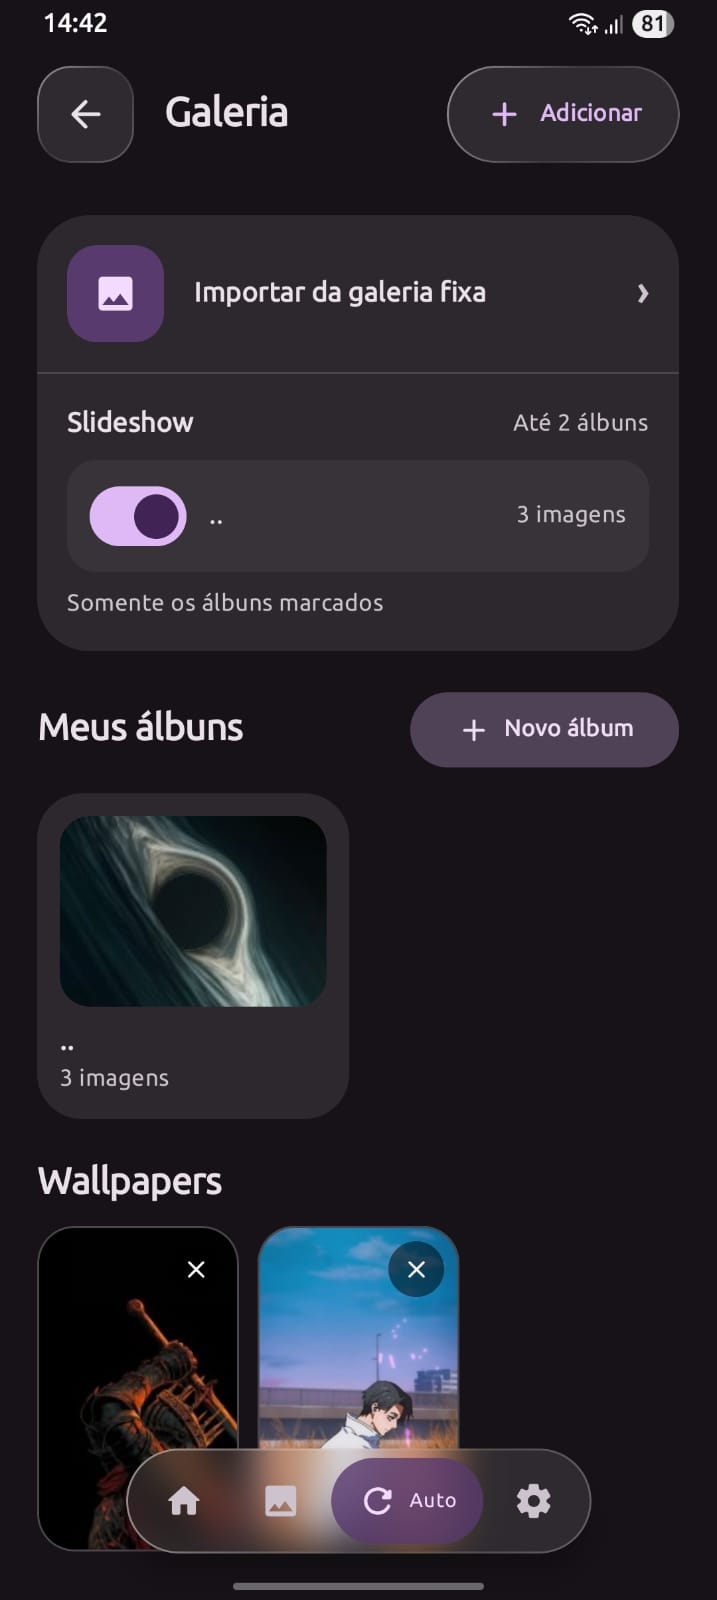
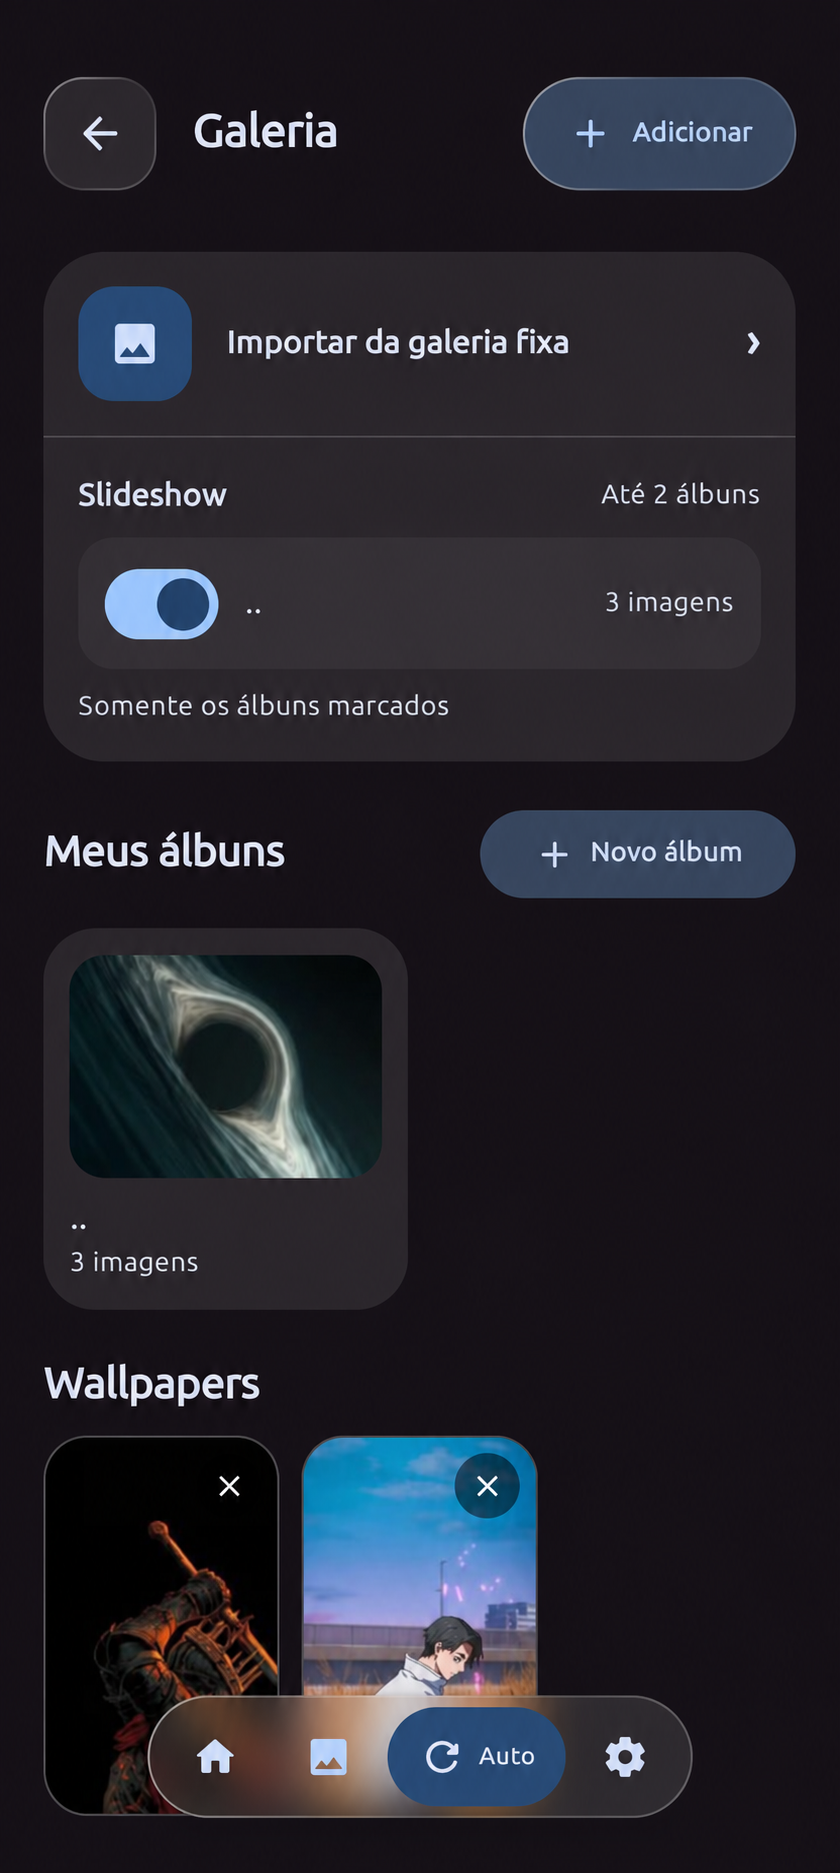
Add files via upload

diff --git a/index.html b/index.html
@@ -41,15 +41,15 @@
   <div class="section-label"><span>01</span><span class="label-pill">O seu Android, mais seu <b aria-hidden="true"><svg class="icon" viewBox="0 0 24 24" fill="none" stroke="currentColor" stroke-width="1.5" stroke-linecap="round" stroke-linejoin="round" aria-hidden="true"><path d="M12 2v20M2 12h20M5 5l14 14M5 19 19 5"/></svg></b></span></div>
   <h2>Um novo acabamento para o que você vê <span class="inline-mark" aria-hidden="true"><svg class="icon" viewBox="0 0 24 24" fill="none" stroke="currentColor" stroke-width="1.5" stroke-linecap="round" stroke-linejoin="round" aria-hidden="true"><path d="M6 18 18 6M6 6h12v12"/></svg></span> todos os dias.<br><span class="muted">Escolha a imagem. Ajuste o vidro.<br>Deixe a sua identidade aparecer.</span></h2>
   <div class="feature-grid" id="telas">
-    <article class="feature-card"><div class="shot-stage stage-peach"><span class="stage-tag">01 — PERSONALIZE</span><div class="phone"><img src="assets/app-home.png" alt="Tela inicial do Dock Líquida, com prévia de wallpaper abstrato e dock de vidro" width="918" height="2048" loading="eager"></div><span class="stage-spark" aria-hidden="true"><svg class="icon" viewBox="0 0 24 24" fill="none" stroke="currentColor" stroke-width="1.5" stroke-linecap="round" stroke-linejoin="round" aria-hidden="true"><path d="M12 2v20M2 12h20M5 5l14 14M5 19 19 5"/></svg></span></div><h3>Um toque de vidro.</h3><p>Ajuste o brilho, a refração e o acabamento da sua dock.</p></article>
-    <article class="feature-card featured-card"><a class="mini-cta" href="#versoes"><span>SEU PRÓXIMO VISUAL</span><span aria-hidden="true"><svg class="icon" viewBox="0 0 24 24" fill="none" stroke="currentColor" stroke-width="1.5" stroke-linecap="round" stroke-linejoin="round" aria-hidden="true"><path d="M6 18 18 6M6 6h12v12"/></svg></span></a><div class="shot-stage stage-mint"><span class="stage-tag">02 — ORGANIZE</span><div class="phone"><img src="assets/app-gallery.png" alt="Galeria do app com uma coleção de wallpapers abstratos" width="918" height="2048" loading="eager"></div></div><h3>Espaço para suas ideias.</h3><p>Organize seus wallpapers em galerias e álbuns, do seu jeito.</p></article>
-    <article class="feature-card"><div class="shot-stage stage-lilac"><span class="stage-tag">03 — RENOVE</span><div class="phone"><img src="assets/app-auto.png" alt="Galeria automática com álbum e wallpapers para alternar" width="918" height="2048" loading="eager"></div><span class="stage-spark" aria-hidden="true"><svg class="icon" viewBox="0 0 24 24" fill="none" stroke="currentColor" stroke-width="1.5" stroke-linecap="round" stroke-linejoin="round" aria-hidden="true"><path d="M20 7v5h-5M4 17v-5h5"/><path d="M6.1 7a7 7 0 0 1 11.6-1L20 9M4 15l2.3 3A7 7 0 0 0 18 17"/></svg></span></div><h3>Deixe o visual mudar.</h3><p>Monte coleções para a troca automática e mantenha cada dock individual.</p></article>
+    <article class="feature-card"><div class="shot-stage stage-peach"><span class="stage-tag">01 — PERSONALIZE</span><div class="phone"><img src="assets/app-home.png" alt="Tela inicial do Dock Líquida com interface azul e prévia de wallpaper com dock de vidro" width="840" height="1873" loading="eager"></div><span class="stage-spark" aria-hidden="true"><svg class="icon" viewBox="0 0 24 24" fill="none" stroke="currentColor" stroke-width="1.5" stroke-linecap="round" stroke-linejoin="round" aria-hidden="true"><path d="M12 2v20M2 12h20M5 5l14 14M5 19 19 5"/></svg></span></div><h3>Um toque de vidro.</h3><p>Ajuste o brilho, a refração e o acabamento da sua dock.</p></article>
+    <article class="feature-card featured-card"><a class="mini-cta" href="#versoes"><span>SEU PRÓXIMO VISUAL</span><span aria-hidden="true"><svg class="icon" viewBox="0 0 24 24" fill="none" stroke="currentColor" stroke-width="1.5" stroke-linecap="round" stroke-linejoin="round" aria-hidden="true"><path d="M6 18 18 6M6 6h12v12"/></svg></span></a><div class="shot-stage stage-mint"><span class="stage-tag">02 — ORGANIZE</span><div class="phone"><img src="assets/app-gallery.png" alt="Galeria do Dock Líquida com interface azul, álbuns e wallpapers" width="839" height="1874" loading="eager"></div></div><h3>Espaço para suas ideias.</h3><p>Organize seus wallpapers em galerias e álbuns, do seu jeito.</p></article>
+    <article class="feature-card"><div class="shot-stage stage-lilac"><span class="stage-tag">03 — RENOVE</span><div class="phone"><img src="assets/app-auto.png" alt="Galeria automática com álbum e wallpapers para alternar" width="840" height="1873" loading="eager"></div><span class="stage-spark" aria-hidden="true"><svg class="icon" viewBox="0 0 24 24" fill="none" stroke="currentColor" stroke-width="1.5" stroke-linecap="round" stroke-linejoin="round" aria-hidden="true"><path d="M20 7v5h-5M4 17v-5h5"/><path d="M6.1 7a7 7 0 0 1 11.6-1L20 9M4 15l2.3 3A7 7 0 0 0 18 17"/></svg></span></div><h3>Deixe o visual mudar.</h3><p>Monte coleções para a troca automática e mantenha cada dock individual.</p></article>
   </div>
-  <p class="image-note">Telas do app com wallpapers ilustrativos.</p>
+  <p class="image-note">Capturas do app com a interface recolorida em azul para esta apresentação.</p>
 </section>
 <section class="details wrap section" aria-labelledby="details-title">
   <div class="section-label"><span>02</span><span class="label-pill">Cada detalhe conta <b aria-hidden="true"><svg class="icon" viewBox="0 0 24 24" fill="none" stroke="currentColor" stroke-width="1.5" stroke-linecap="round" stroke-linejoin="round" aria-hidden="true"><path d="M12 2v20M2 12h20M5 5l14 14M5 19 19 5"/></svg></b></span></div>
-  <div class="details-layout"><div class="details-copy"><h2 id="details-title">O seu estilo.<br><em>Em cada ajuste.</em></h2><p>Uma imagem pode mudar tudo. E cada imagem pode ter a própria dock.</p><ul class="detail-list"><li><span>01</span><div><h3>Dock individual</h3><p>Guarde uma configuração para cada wallpaper.</p></div><span aria-hidden="true"><svg class="icon" viewBox="0 0 24 24" fill="none" stroke="currentColor" stroke-width="1.5" stroke-linecap="round" stroke-linejoin="round" aria-hidden="true"><path d="M6 18 18 6M6 6h12v12"/></svg></span></li><li><span>02</span><div><h3>Cores que acompanham você</h3><p>Escolha entre a paleta do sistema e as cores do wallpaper.</p></div><span aria-hidden="true"><svg class="icon" viewBox="0 0 24 24" fill="none" stroke="currentColor" stroke-width="1.5" stroke-linecap="round" stroke-linejoin="round" aria-hidden="true"><path d="M6 18 18 6M6 6h12v12"/></svg></span></li><li><span>03</span><div><h3>Claro, escuro ou automático</h3><p>Uma interface que combina com a sua preferência.</p></div><span aria-hidden="true"><svg class="icon" viewBox="0 0 24 24" fill="none" stroke="currentColor" stroke-width="1.5" stroke-linecap="round" stroke-linejoin="round" aria-hidden="true"><path d="M6 18 18 6M6 6h12v12"/></svg></span></li></ul></div><div class="settings-stage"><div class="settings-orbit" aria-hidden="true"></div><div class="settings-screen"><img src="assets/app-settings.png" alt="Configurações reais do Dock Líquida com aparência, origem das cores e dock individual" width="574" height="1280" loading="eager"></div><span class="settings-badge">DO SEU JEITO <span aria-hidden="true"><svg class="icon" viewBox="0 0 24 24" fill="none" stroke="currentColor" stroke-width="1.5" stroke-linecap="round" stroke-linejoin="round" aria-hidden="true"><path d="M6 18 18 6M6 6h12v12"/></svg></span></span></div></div>
+  <div class="details-layout"><div class="details-copy"><h2 id="details-title">O seu estilo.<br><em>Em cada ajuste.</em></h2><p>Uma imagem pode mudar tudo. E cada imagem pode ter a própria dock.</p><ul class="detail-list"><li><span>01</span><div><h3>Dock individual</h3><p>Guarde uma configuração para cada wallpaper.</p></div><span aria-hidden="true"><svg class="icon" viewBox="0 0 24 24" fill="none" stroke="currentColor" stroke-width="1.5" stroke-linecap="round" stroke-linejoin="round" aria-hidden="true"><path d="M6 18 18 6M6 6h12v12"/></svg></span></li><li><span>02</span><div><h3>Cores que acompanham você</h3><p>Escolha entre a paleta do sistema e as cores do wallpaper.</p></div><span aria-hidden="true"><svg class="icon" viewBox="0 0 24 24" fill="none" stroke="currentColor" stroke-width="1.5" stroke-linecap="round" stroke-linejoin="round" aria-hidden="true"><path d="M6 18 18 6M6 6h12v12"/></svg></span></li><li><span>03</span><div><h3>Claro, escuro ou automático</h3><p>Uma interface que combina com a sua preferência.</p></div><span aria-hidden="true"><svg class="icon" viewBox="0 0 24 24" fill="none" stroke="currentColor" stroke-width="1.5" stroke-linecap="round" stroke-linejoin="round" aria-hidden="true"><path d="M6 18 18 6M6 6h12v12"/></svg></span></li></ul></div><div class="settings-stage"><div class="settings-orbit" aria-hidden="true"></div><div class="editor-pair"><div class="settings-screen editor-base"><img src="assets/app-editor-base.png" alt="Editor de wallpaper com interface azul e controles de tamanho" width="839" height="1874" loading="lazy"></div><div class="settings-screen editor-dock"><img src="assets/app-editor-dock.png" alt="Editor da dock com interface azul e controles de posição" width="993" height="1584" loading="lazy"></div></div><span class="settings-badge">DO SEU JEITO <span aria-hidden="true"><svg class="icon" viewBox="0 0 24 24" fill="none" stroke="currentColor" stroke-width="1.5" stroke-linecap="round" stroke-linejoin="round" aria-hidden="true"><path d="M6 18 18 6M6 6h12v12"/></svg></span></span></div></div>
 </section>
 <section class="downloads wrap section" id="versoes" aria-labelledby="download-heading">
   <div class="section-label"><span>03</span><span class="label-pill">Pronto para mudar? <b aria-hidden="true"><svg class="icon" viewBox="0 0 24 24" fill="none" stroke="currentColor" stroke-width="1.5" stroke-linecap="round" stroke-linejoin="round" aria-hidden="true"><path d="M12 2v20M2 12h20M5 5l14 14M5 19 19 5"/></svg></b></span></div>

diff --git a/style.css b/style.css
@@ -28,56 +28,6 @@ body {
 .stage-lilac { background: #b6b7d2; }
 .settings-stage { background: #171f30; border-color: #a6c4ff26; }
 .settings-orbit { border-color: #a6c4ff33; }
-
-/* Animações mais suaves */
-@keyframes dock-entrada-suave {
-  from {
-    opacity: 0;
-    translate: 0 10px;
-  }
-  to {
-    opacity: 1;
-    translate: 0 0;
-  }
-}
-
-@keyframes glass-float {
-  0%, 100% { transform: translateY(0); }
-  50% { transform: translateY(-3px); }
-}
-
-@media (prefers-reduced-motion: no-preference) {
-  .scroll-revealed {
-    animation: dock-entrada-suave .55s
-      cubic-bezier(.22, 1, .36, 1) both;
-  }
-
-  .faq-list details[open] > .faq-answer,
-  .beta-panel[open] > .beta-content,
-  .news-notes[open] > .notes-content,
-  .news-dialog[open] {
-    animation: dock-entrada-suave .28s ease-out both;
-  }
-
-  .news-bell:active,
-  .news-close:active,
-  .apk-download:active {
-    transform: scale(.97);
-  }
-}
-
-/* Alivia a rolagem em telas de toque */
-@media (hover: none) and (pointer: coarse) {
-  .stage-peach .phone,
-  .stage-mint .phone,
-  .stage-lilac .phone {
-    animation: none;
-  }
-
-  .feature-card.scroll-revealed {
-    animation-delay: 0s;
-  }
-}
 .release-panel { background: #111a27b3; }
 .apk-row { border-color: #b6caff24; }
 .apk-row.is-latest { background: #7eacf512; border-color: #b6d0ff55; }
@@ -433,55 +383,15 @@ body:has(.news-dialog[open]) { overflow: hidden; }
 @media (max-width:380px) { .top-actions .nav-github { font-size: 0; gap: 0; width: 44px; } .top-actions .nav-github svg { width: 18px; } }
 @media (prefers-reduced-motion:reduce) { .news-bell,.faq-list summary > span { transition: none; } }
 
-/* Acabamento Liquid Glass */
-:root {
-  --glass-surface: linear-gradient(150deg, #b6ceff12, #7c9ed407), #141d2c;
-  --glass-edge: #bbd1ff2e;
-  --glass-reflection: inset 0 1px 0 #eff5ff26;
-}
-
-.top > .brand,
-.top > nav,
-.top-actions .nav-github,
-.news-bell,
-.download-strip,
-.mini-cta,
-.refresh-releases {
-  background: var(--glass-surface);
-  border-color: var(--glass-edge);
-  box-shadow: var(--glass-reflection), 0 6px 18px #03081526;
-}
-
-.release-panel,
-.beta-panel,
-.faq-list > details {
-  background: var(--glass-surface);
-  border-color: var(--glass-edge);
-  box-shadow: var(--glass-reflection), 0 12px 30px #03081530;
-}
-
-.apk-row {
-  background: #a4bcf008;
-  border-color: #b6caff20;
-}
-
-.apk-row.is-latest {
-  background: linear-gradient(145deg, #a9c4ff1f, #a9c4ff0a);
-  border-color: #b6d0ff60;
-}
-
-.hero-orb {
-  background: radial-gradient(
-    ellipse at 72% 14%,
-    #647ba8 0%,
-    #334764 30%,
-    #202b42 64%,
-    #161e2e 84%
-  );
-  box-shadow: inset 0 1px 1px #e1edff38, 0 0 64px #527eb21c;
-}
-
-.shot-stage {
-  border: 1px solid #e5edff30;
-  box-shadow: var(--glass-reflection), 0 14px 32px #03081540;
+/* Novas capturas: a barra do sistema já foi removida nas imagens. */
+.phone img, .settings-screen img { margin-top: 0; display: block; }
+.phone { aspect-ratio: auto; }
+.editor-pair { display: grid; grid-template-columns: 1fr 1fr; gap: 14px; width: 100%; align-items: start; }
+.settings-stage { padding: 40px 22px 65px; height: auto; max-height: none; }
+.editor-pair .settings-screen { width: 100%; max-width: 100%; transform: none; aspect-ratio: auto; border-radius: 20px; }
+.editor-base { margin-top: 32px; }
+@media (max-width:700px) {
+  .settings-stage { padding: 22px 16px 55px; }
+  .editor-pair { gap: 10px; }
+  .editor-pair .settings-screen { border-radius: 14px; }
 }

diff --git a/README.md b/README.md
@@ -1,35 +1,9 @@
-# Dock Líquida — GitHub Pages
+# Dock Líquida — capturas atualizadas
 
-Versão estática completa, sem comunidade, painel administrativo, banco ou backend. Mantém o visual Liquid Glass, capturas do app, animações, FAQ, sininho de novidades, versões finais, Beta, changelogs e contadores de downloads.
+Envie o conteúdo desta pasta à raiz do repositório do site, substituindo os arquivos existentes. Mantenha assets ao lado de index.html.
 
-## Publicar sem terminal
+As capturas anteriores foram substituídas por cinco imagens novas: Início, Galeria, Auto, Editor Base e Editor Dock. A interface foi recolorida em azul apenas nas imagens de apresentação. FAQ, sininho, versões finais, betas, contadores e changelogs foram preservados.
 
-1. Extraia o ZIP.
-2. Envie TODO o conteúdo para a raiz de `jlian-dev/dock-liquida-site`, incluindo a pasta `assets`, substituindo os arquivos existentes. Não envie o ZIP fechado e não crie uma pasta intermediária.
-3. Remova do repositório os arquivos e pastas antigos listados abaixo. Enviar um ZIP extraído por cima NÃO apaga arquivos que ficaram de fora do pacote.
-4. Em Settings → Pages, selecione Deploy from a branch, branch `main`, pasta `/(root)` e Save.
-5. Aguarde o workflow de Pages terminar com sucesso. O endereço é `https://jlian-dev.github.io/dock-liquida-site/`.
+Remova assets/app-settings.png do repositório, se ainda existir: ela não é mais utilizada. Nenhuma configuração de Vercel é necessária.
 
-Se o GitHub não enviar `.nojekyll` por estar oculto, crie um arquivo vazio com esse nome em Add file → Create new file. O site não depende de Node, npm, build ou variáveis de ambiente.
-
-## Remover do repositório antigo
-
-Pastas: `api/`, `server/`, `tests/`.
-
-Arquivos: `admin.html`, `admin.js`, `comunidade.html`, `community.js`, `community-backend.js`, `community-config.js`, `vercel.json`, `CONFIGURAR-VERCEL.md`, `package.json`, `package-lock.json`, `build.mjs`, `dev-server.mjs`.
-
-Não exclua o repositório. Preserve as configurações do GitHub Pages e os arquivos deste pacote. Se tiver uma pasta `dist` antiga, ela também deixa de ser usada: a publicação agora lê a raiz.
-
-## Atualizações automáticas
-
-Versões, notas e contadores usam a API pública de Releases de `jlian-dev/wallpaper-dockglass`. O sininho apresenta as 20 releases finais ou betas numeradas mais recentes com APK. A consulta acontece ao abrir o site e no botão Atualizar dos downloads. Marcar como lidas guarda a leitura apenas neste navegador. A API GitHub possui limites de acesso; falhas mostram uma mensagem para tentar novamente.
-
-Betas precisam estar marcadas como Pre-release e terminar em `-beta1`, `-beta2` etc. Também é aceito `-beta(1)` literal. Drafts e betas sem número não entram na aba.
-
-## Hospedagem anterior
-
-Este pacote não exclui sua conta ou seus recursos Vercel, Neon e Blob. Confirme que o Pages publicou com sucesso antes de encerrar a hospedagem anterior. Ele também não resolve por si só a falha de fila do GitHub Pages que apareceu nos logs.
-
-## Verificação
-
-Conferidos os links e arquivos locais, os pontos de montagem do FAQ, novidades e listas de releases, ausência de chamadas ao backend da comunidade e sintaxe JavaScript. Os recursos FAQ e novidades foram testados na prévia na atualização anterior; esta preparação remove os links e a pergunta da comunidade e mantém o restante.
+Após o GitHub Pages publicar, recarregue com Ctrl+F5 e confira as cinco imagens, o FAQ, o sininho e a lista de versões no celular e no computador.
